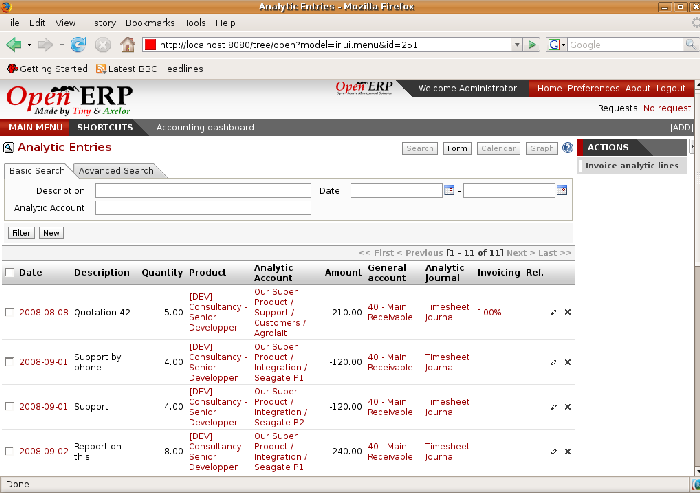
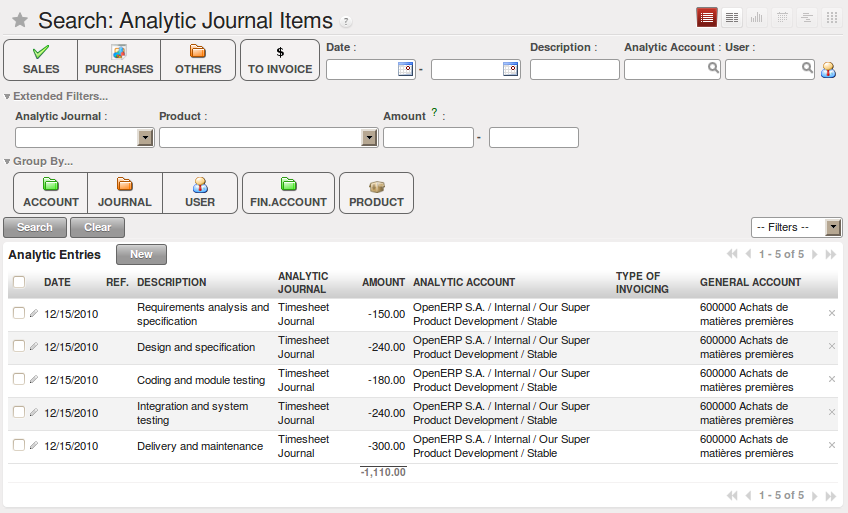
[IMP]: Accounting: Effective Management of Operations --> Analytic Accounts --> Analytic Entries.

diff --git a/4/4_10_Accounts/4_10_Accounts_record.rst b/4/4_10_Accounts/4_10_Accounts_record.rst
@@ -3,20 +3,23 @@
    single: analytic; records
 ..
 
-Analytic records
+Analytic Entries
 ================
+
+Integrated with General Accounting
+----------------------------------
 
 Just as in general accounting, analytic entries must belong to an account and an analytic journal.
 
 Analytic records can be distinguished from general records by the following characteristics:
 
-* they're not necessarily legal accounting documents,
+* they are not necessarily legal accounting documents,
 
-* they don't necessarily belong to an existing accounting period,
+* they do not necessarily belong to an existing accounting period,
 
-* they're managed according to their date and not an accounting period,
+* they are managed according to their date and not an accounting period,
 
-* they don't generate both a debit and a credit entry, but a positive amount (income) or a negative
+* they do not generate both a debit and a credit entry, but a positive amount (income) or a negative
   amount (cost).
 
 .. _fig-accanmv:
@@ -39,57 +42,14 @@ You can see there:
 
 * sales for recharging these costs.
 
-Automated entries
------------------
+Manual Entries
+--------------
 
-Analytic accounting is totally integrated with the other Open ERP modules, so you never have to re-
-enter the records. They're automatically generated by the following operations:
-
-* confirmation of an invoice generates analytic entries for sales or purchases connected to the
-  account shown in the invoice line,
-
-* the entry of a service generates an analytic entry for the cost of this service to the given
-  project,
-
-* the manufacture of a product generates an entry for the manufacturing cost of each operation in
-  the product range.
-
-Other documents linked to one of these three operations produce analytic records indirectly. For
-example, when you're entering a customer sales order you can link it to the customer's analytic
-account. When you're managing by case or project, mark the project with that order. This order will
-then generate a customer invoice, which will be linked to the analytic account. When the invoice is
-validated it will automatically create general and analytic accounting records for the corresponding
-project.
-
-Expense receipts from an employee can be linked to an analytic account for reimbursement. When a
-receipt is approved by the company, a purchase invoice is created. This invoice represents a debit
-on the company in favor of the employee. Each line of the purchase invoice is then linked to an
-analytic account which automatically allocates the costs for that receipt to the corresponding
-project.
-
-To visualize the general entries following these different actions you can use one of the following
-menus:
-
-	#. To see all of the entries, :menuselection:`Financial Management --> Entries Encoding --> Analytic Entries
-	   --> Entries Encoding by Line` and then click :guilabel:`Open Entries`,
-
-	#. To see the entries per account, click the :guilabel:`Analytic Account` field of any of the lines
-	   of Analytic Entries to see the details of that entry, then use the analytic :guilabel:`Account name` to
-	   start a search of all entries with that name (just click the :guilabel:`Date` hyperlink on a line in the web
-	   client, or double-click the line in the GTK client).
-
-	#. To see all of the entries by Journal, :menuselection:`Financial Management --> Entries Encoding -->
-	   Analytic Entries --> Analytic Entries by Journal` and then click on one of the journal names.
-
-Manual record entry
--------------------
-
-Even though most analytic entries are produced automatically by the other Open ERP documents it's
-sometimes necessary to make manual record entries. It's usually needed for certain analytic
+Even though most analytic entries are produced automatically by the other Open ERP documents it is
+sometimes necessary to make manual record entries. It is usually needed for certain analytic
 operations that have no counterpart in the general accounts.
 
-To make manual record entries, use the menu :menuselection:`Financial Management --> Entries Encoding-->
-Analytic Entries --> Entries Encoding by Line`.
+To make manual record entries, use the menu :menuselection:`Accounting --> Journal Entries --> Analytic Journal Items` and click on `New` button.
 
 .. index::
    single: analytic; entries
@@ -98,7 +58,7 @@ Analytic Entries --> Entries Encoding by Line`.
 
 	To make an analytic entry, Open ERP asks you to specify a general account.
 	This is given only for information in the different cross-reports.
-	It won't create any new entries in the general accounts.
+	It will not create any new entries in the general accounts.
 
 Select a journal and complete the different fields. Write an expense as a negative amount and income
 as a positive amount.
@@ -121,6 +81,40 @@ as a positive amount.
 		In this case, make a positive entry on the first account and a negative entry for the same
 		amount on the account of the second project.
 
+Analytic Models
+---------------
+
+Analytic accounting is totally integrated with the other Open ERP modules, so you never have to re-
+enter the records. They are automatically generated by the following operations:
+
+* confirmation of an invoice generates analytic entries for sales or purchases connected to the
+  account shown in the invoice line,
+
+* the entry of a service generates an analytic entry for the cost of this service to the given
+  project,
+
+* the manufacture of a product generates an entry for the manufacturing cost of each operation in
+  the product range.
+
+Other documents linked to one of these three operations produce analytic records indirectly. For
+example, when you are entering a customer sales order you can link it to the customer's analytic
+account. When you are managing by case or project, mark the project with that order. This order will
+then generate a customer invoice, which will be linked to the analytic account. When the invoice is
+validated it will automatically create general and analytic accounting records for the corresponding
+project.
+
+Expense receipts from an employee can be linked to an analytic account for reimbursement. When a
+receipt is approved by the company, a purchase invoice is created. This invoice represents a debit
+on the company in favour of the employee. Each line of the purchase invoice is then linked to an
+analytic account which automatically allocates the costs for that receipt to the corresponding
+project.
+
+To visualize the general entries following these different actions you can use one of the following
+menus:
+
+	#. To see all of the entries, :menuselection:`Accounting --> Journal Entries --> Analytic Journal Items`
+
+	#. To see the entries per account, per user, per product or per partner, you can use menu :menuselection:`Accounting --> Reporting --> Statistic Reports --> Analytic Entries Analysis`.
 
 .. Copyright © Open Object Press. All rights reserved.
 
